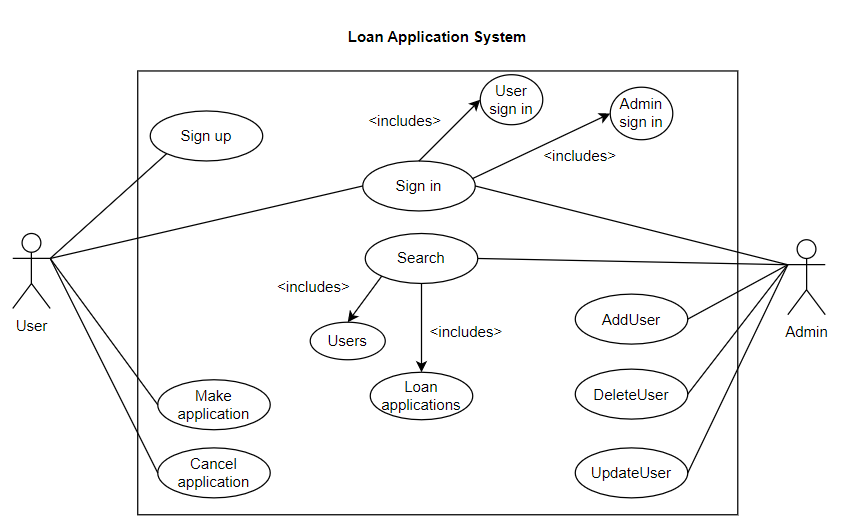
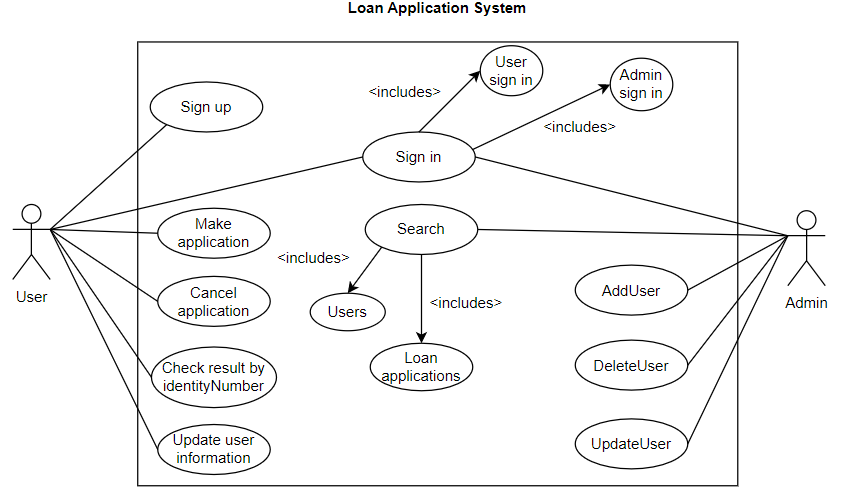
all services added

Changed region(s): [[0.0, 0.0602, 0.9881, 0.994], [0.4014, 0.0, 0.6176, 0.0301]]

diff --git a/src/main/java/com/berkozmen/loan_application_system/service/UserService.java b/src/main/java/com/berkozmen/loan_application_system/service/UserService.java
@@ -9,6 +9,7 @@ import com.berkozmen.loan_application_system.model.mapper.UserMapper;
 import com.berkozmen.loan_application_system.repository.UserRepository;
 import com.berkozmen.loan_application_system.security.JwtTokenProvider;
 import lombok.RequiredArgsConstructor;
+import lombok.extern.slf4j.Slf4j;
 import org.springframework.http.HttpStatus;
 import org.springframework.security.authentication.AuthenticationManager;
 import org.springframework.security.authentication.UsernamePasswordAuthenticationToken;
@@ -19,7 +20,7 @@ import org.springframework.stereotype.Service;
 import java.util.Collections;
 import java.util.List;
 import java.util.Optional;
-
+@Slf4j
 @Service
 @RequiredArgsConstructor
 public class UserService {
@@ -36,14 +37,11 @@ public class UserService {
         return userRepository.findAll();
     }
 
-    public User getById(Long id){
-        Optional<User> byId = userRepository.findById(id);
-        return byId.orElseThrow(()->new EntityNotFoundException("User"));
-    }
 
     public User getByIdentityNumber(String identityNumber) {
         User user = userRepository.findByIdentityNumber(identityNumber);
         if (user == null) {
+            log.error("The user doesn't exist");
             throw new CustomJwtException("The user doesn't exist", HttpStatus.NOT_FOUND);
         }
         return user;
@@ -52,8 +50,10 @@ public class UserService {
     public String signin(String identityNumber, String password) {
         try {
             authenticationManager.authenticate(new UsernamePasswordAuthenticationToken(identityNumber, password));
+            log.info("User successfully signed in");
             return jwtTokenProvider.createToken(identityNumber, userRepository.findByIdentityNumber(identityNumber).getRoles());
         } catch (AuthenticationException e) {
+            log.error("Invalid username/password supplied");
             throw new CustomJwtException("Invalid username/password supplied", HttpStatus.BAD_REQUEST);
         }
     }
@@ -64,6 +64,7 @@ public class UserService {
             Role role = isAdmin ? Role.ROLE_ADMIN : Role.ROLE_CLIENT;
             user.setRoles(Collections.singletonList(role));
             userRepository.save(user);
+            log.info("User successfully signed up");
             return jwtTokenProvider.createToken(user.getIdentityNumber(), user.getRoles());
         } else {
             throw new CustomJwtException("Username is already in use", HttpStatus.BAD_REQUEST);
@@ -73,7 +74,9 @@ public class UserService {
     public void delete(String identityNumber) {
         if (userRepository.existsByIdentityNumber(identityNumber)) {
             userRepository.deleteByIdentityNumber(identityNumber);
+            log.info("User successfully deleted");
         } else {
+            log.error("User not found");
             throw new CustomJwtException("User not found", HttpStatus.NOT_FOUND);
         }
     }
@@ -81,7 +84,9 @@ public class UserService {
     public User update(Long identityNumber, UserDataDTO userDataDTO){
         User updatedUser = getByIdentityNumber(String.valueOf(identityNumber));
         UserMapper.UserDataDTOtoUpdatedUser(updatedUser ,userDataDTO);
+        log.info("User successfully updated");
         return userRepository.save(updatedUser);
+
     }
 
 }

diff --git a/src/main/java/com/berkozmen/loan_application_system/service/LoanApplicationService.java b/src/main/java/com/berkozmen/loan_application_system/service/LoanApplicationService.java
@@ -1,0 +1,74 @@
+package com.berkozmen.loan_application_system.service;
+
+import com.berkozmen.loan_application_system.exception.EntityNotFoundException;
+import com.berkozmen.loan_application_system.model.Status;
+import com.berkozmen.loan_application_system.model.entity.LoanApplication;
+import com.berkozmen.loan_application_system.model.entity.User;
+import com.berkozmen.loan_application_system.repository.LoanApplicationRepository;
+import lombok.RequiredArgsConstructor;
+import lombok.extern.slf4j.Slf4j;
+import org.springframework.beans.factory.annotation.Autowired;
+import org.springframework.stereotype.Service;
+
+import java.util.List;
+import java.util.Optional;
+@Slf4j
+@Service
+@RequiredArgsConstructor
+public class LoanApplicationService {
+
+    @Autowired
+    private LoanApplicationRepository loanApplicationRepository;
+
+
+    //Credit limit multiplier (default 4)
+    private Long CLM = 4L;
+
+    public List<LoanApplication> getAll() {
+        return loanApplicationRepository.findAll();
+    }
+
+    public LoanApplication getByUser(User user) {
+        Optional<LoanApplication> loanApplication = loanApplicationRepository.findByUser(user);
+        return loanApplication.orElseThrow(() -> {
+            log.error("Related loan application cannot find by user");
+            return new EntityNotFoundException("Loan Application");
+        });
+    }
+
+    public LoanApplication create(User user){
+        LoanApplication loanApplication = loanApplicationResultCalculator(user);
+        log.info("User loan application created successfully.");
+        return loanApplicationRepository.save(loanApplication);
+    }
+
+    public void delete(User user ){
+        loanApplicationRepository.deleteByUser(user);
+        log.info("User loan application deleted successfully.");
+    }
+
+    private LoanApplication loanApplicationResultCalculator(User user){
+        LoanApplication loanApplication = new LoanApplication();
+        loanApplication.setUser(user);
+        if(user.getCreditScore().getScore() < 500L){
+            loanApplication.setStatus(Status.DENIED);
+            loanApplication.setAllowedCreditLimit(0L);
+            return loanApplication;
+        } else if (500L <= user.getCreditScore().getScore() & user.getCreditScore().getScore()<1000L) {
+            if(user.getMonthlySalary() < 5000L){
+                loanApplication.setStatus(Status.APPROVED);
+                loanApplication.setAllowedCreditLimit(10000L);
+                return loanApplication;
+            } else {
+                loanApplication.setStatus(Status.APPROVED);
+                loanApplication.setAllowedCreditLimit(20000L);
+                return loanApplication;
+            }
+        }else {
+            loanApplication.setStatus(Status.APPROVED);
+            loanApplication.setAllowedCreditLimit(user.getMonthlySalary() * CLM);
+            return loanApplication;
+        }
+    }
+
+}

diff --git a/src/main/java/com/berkozmen/loan_application_system/controller/LoanApplicationController.java b/src/main/java/com/berkozmen/loan_application_system/controller/LoanApplicationController.java
@@ -1,0 +1,54 @@
+package com.berkozmen.loan_application_system.controller;
+
+import com.berkozmen.loan_application_system.model.entity.LoanApplication;
+import com.berkozmen.loan_application_system.model.entity.User;
+import com.berkozmen.loan_application_system.service.LoanApplicationService;
+import com.berkozmen.loan_application_system.service.UserService;
+import org.springframework.beans.factory.annotation.Autowired;
+import org.springframework.http.HttpStatus;
+import org.springframework.http.ResponseEntity;
+import org.springframework.transaction.annotation.Transactional;
+import org.springframework.web.bind.annotation.*;
+
+import java.util.List;
+
+@RestController
+@RequestMapping("/loanApplications")
+@Transactional
+public class LoanApplicationController {
+
+    @Autowired
+    private LoanApplicationService loanApplicationService;
+
+    @Autowired
+    private UserService userService;
+
+    @GetMapping()
+    //@ApiOperation(value = "User list method")
+    public List<LoanApplication> getAllLoanApplications() {
+        return loanApplicationService.getAll();
+    }
+
+    @GetMapping("/{identityNumber}")
+    public ResponseEntity getLoanApplicationByIdentityNumber(@PathVariable(name = "identityNumber") String identityNumber){
+        User byIdentityNumber = userService.getByIdentityNumber(identityNumber);
+        return ResponseEntity.status(HttpStatus.OK).body(loanApplicationService.getByUser(byIdentityNumber));
+    }
+
+    //@ApiOperation(value = "Book create method")
+    @PostMapping("/create/{identityNumber}")
+    public ResponseEntity createLoanApplication(@PathVariable(name = "identityNumber") String identityNumber){
+        User byIdentityNumber = userService.getByIdentityNumber(identityNumber);
+        LoanApplication loanApplication = loanApplicationService.create(byIdentityNumber);
+        return ResponseEntity.status(HttpStatus.CREATED).body(loanApplication);
+    }
+
+    //@ApiOperation(value = "Book delete method")
+    @DeleteMapping("/delete/{identityNumber}")
+    public ResponseEntity deleteLoanApplication(@PathVariable(name = "identityNumber") String identityNumber){
+        User byIdentityNumber = userService.getByIdentityNumber(identityNumber);
+        loanApplicationService.delete(byIdentityNumber);
+        return ResponseEntity.status(HttpStatus.OK).body("Related loan application deleted successfully");
+    }
+
+}

diff --git a/src/main/java/com/berkozmen/loan_application_system/controller/UserController.java b/src/main/java/com/berkozmen/loan_application_system/controller/UserController.java
@@ -7,6 +7,7 @@ import com.berkozmen.loan_application_system.model.dto.UserSigninDTO;
 import com.berkozmen.loan_application_system.model.dto.UserSignupDTO;
 import com.berkozmen.loan_application_system.model.entity.User;
 import com.berkozmen.loan_application_system.model.mapper.UserMapper;
+import com.berkozmen.loan_application_system.service.CreditScoreService;
 import com.berkozmen.loan_application_system.service.UserService;
 import org.springframework.beans.factory.annotation.Autowired;
 import org.springframework.http.HttpStatus;
@@ -28,11 +29,19 @@ public class UserController {
     @Autowired
     private UserService userService;
 
+    @Autowired
+    private CreditScoreService creditScoreService;
+
 
     @GetMapping()
     //@ApiOperation(value = "User list method")
     public List<User> getAllUsers() {
         return userService.getAll();
+    }
+
+    @GetMapping("/{identityNumber}")
+    public ResponseEntity getUserByIdentityNumber(@PathVariable(name = "identityNumber") String identityNumber){
+        return ResponseEntity.status(HttpStatus.OK).body(userService.getByIdentityNumber(identityNumber));
     }
 
 
@@ -46,6 +55,7 @@ public class UserController {
     @PostMapping("/signup")
     public String signup(@RequestBody @Valid UserSignupDTO userSignupDTO) {
         User user = UserMapper.UserSignupDTOtoEntity(userSignupDTO);
+        user.setCreditScore(creditScoreService.createUserCreditScore());
         return userService.signup(user,false);
     }
 

diff --git a/src/main/java/com/berkozmen/loan_application_system/service/CreditScoreService.java b/src/main/java/com/berkozmen/loan_application_system/service/CreditScoreService.java
@@ -1,0 +1,28 @@
+package com.berkozmen.loan_application_system.service;
+
+import com.berkozmen.loan_application_system.model.entity.CreditScore;
+import com.berkozmen.loan_application_system.model.entity.User;
+import com.berkozmen.loan_application_system.repository.CreditScoreRepository;
+import lombok.extern.slf4j.Slf4j;
+import org.springframework.beans.factory.annotation.Autowired;
+import org.springframework.stereotype.Service;
+import org.apache.commons.lang3.RandomUtils;
+
+import static org.apache.commons.lang3.RandomUtils.nextLong;
+@Slf4j
+@Service
+public class CreditScoreService {
+
+    @Autowired
+    private CreditScoreRepository creditScoreRepository;
+
+
+    public CreditScore createUserCreditScore(){
+        CreditScore creditScore = new CreditScore();
+        creditScore.setScore(nextLong(0L,2000L));
+        creditScoreRepository.save(creditScore);
+        log.info("User credit score created successfully.");
+        return creditScore;
+    }
+
+}

diff --git a/src/main/java/com/berkozmen/loan_application_system/model/entity/LoanApplication.java b/src/main/java/com/berkozmen/loan_application_system/model/entity/LoanApplication.java
@@ -1,0 +1,32 @@
+package com.berkozmen.loan_application_system.model.entity;
+
+import com.berkozmen.loan_application_system.model.Status;
+import lombok.AllArgsConstructor;
+import lombok.Data;
+import lombok.NoArgsConstructor;
+
+import javax.persistence.*;
+
+@Data
+@NoArgsConstructor
+@AllArgsConstructor
+@Entity
+@Table(name = "loan_applications")
+//@ApiModel(value = "User Api model documentation", description = "Model")
+public class LoanApplication {
+    @Id
+    @Column(name = "id", nullable = false)
+    @GeneratedValue(strategy = GenerationType.IDENTITY)
+    private Long id;
+
+    @OneToOne(cascade = CascadeType.MERGE)
+    @JoinColumn(name = "user_id",referencedColumnName = "id")
+    private User user;
+
+    @Enumerated(EnumType.STRING)
+    private Status status;
+
+    private Long allowedCreditLimit;
+
+
+}

diff --git a/src/main/java/com/berkozmen/loan_application_system/exception/handler/GenericExceptionHandler.java b/src/main/java/com/berkozmen/loan_application_system/exception/handler/GenericExceptionHandler.java
@@ -28,12 +28,12 @@ public class GenericExceptionHandler {
         return ResponseEntity.status(HttpStatus.BAD_REQUEST).body(errorResponseMap);
     }
 
-/*    @ExceptionHandler(Exception.class)
+    @ExceptionHandler(Exception.class)
     public ResponseEntity<Map<String, String>> handleEntityNotFoundException(Exception exception){
         Map<String, String > errorResponseMap = new HashMap<>();
         errorResponseMap.put("error_message",exception.getMessage());
         errorResponseMap.put("error_cause",exception.getCause().toString());
         return ResponseEntity.status(HttpStatus.INTERNAL_SERVER_ERROR).body(errorResponseMap);
-    }*/
+    }
 
 }

diff --git a/src/main/java/com/berkozmen/loan_application_system/repository/LoanApplicationRepository.java b/src/main/java/com/berkozmen/loan_application_system/repository/LoanApplicationRepository.java
@@ -1,0 +1,16 @@
+package com.berkozmen.loan_application_system.repository;
+
+
+import com.berkozmen.loan_application_system.model.entity.LoanApplication;
+import com.berkozmen.loan_application_system.model.entity.User;
+import org.springframework.data.jpa.repository.JpaRepository;
+
+import java.util.Optional;
+
+public interface LoanApplicationRepository extends JpaRepository<LoanApplication, Long> {
+
+    Optional<LoanApplication> findByUser(User user);
+
+    void deleteByUser(User user);
+
+}

diff --git a/src/main/java/com/berkozmen/loan_application_system/model/entity/CreditScore.java b/src/main/java/com/berkozmen/loan_application_system/model/entity/CreditScore.java
@@ -1,0 +1,24 @@
+package com.berkozmen.loan_application_system.model.entity;
+
+import lombok.AllArgsConstructor;
+import lombok.Data;
+import lombok.NoArgsConstructor;
+
+import javax.persistence.*;
+
+@Data
+@NoArgsConstructor
+@AllArgsConstructor
+@Entity
+@Table(name = "credit_scores")
+public class CreditScore {
+
+    @Id
+    @Column(name = "id", nullable = false)
+    @GeneratedValue(strategy = GenerationType.IDENTITY)
+    private Long id;
+
+    private Long score;
+
+
+}

diff --git a/src/main/java/com/berkozmen/loan_application_system/repository/CreditScoreRepository.java b/src/main/java/com/berkozmen/loan_application_system/repository/CreditScoreRepository.java
@@ -1,0 +1,12 @@
+package com.berkozmen.loan_application_system.repository;
+
+import com.berkozmen.loan_application_system.model.entity.CreditScore;
+import com.berkozmen.loan_application_system.model.entity.User;
+import org.springframework.data.jpa.repository.JpaRepository;
+import org.springframework.stereotype.Repository;
+
+@Repository
+public interface CreditScoreRepository extends JpaRepository<CreditScore, Long> {
+
+
+}

diff --git a/src/main/java/com/berkozmen/loan_application_system/model/entity/User.java b/src/main/java/com/berkozmen/loan_application_system/model/entity/User.java
@@ -44,8 +44,12 @@ public class User {
     @Column()
     private String phone;
 
-    @Column()
-    private Long creditScore;
+    @OneToOne(cascade = CascadeType.ALL)
+    @JoinColumn(name = "credit_score_id",referencedColumnName = "id")
+    private CreditScore creditScore;
+
+/*    @OneToOne(mappedBy = "user")
+    private LoanApplication loanApplication;*/
 
     //private List<LoanApplication> loanApplications;
 

diff --git a/src/main/java/com/berkozmen/loan_application_system/model/Status.java b/src/main/java/com/berkozmen/loan_application_system/model/Status.java
@@ -1,0 +1,9 @@
+package com.berkozmen.loan_application_system.model;
+
+public enum Status {
+
+    DENIED,
+
+    APPROVED
+
+}
